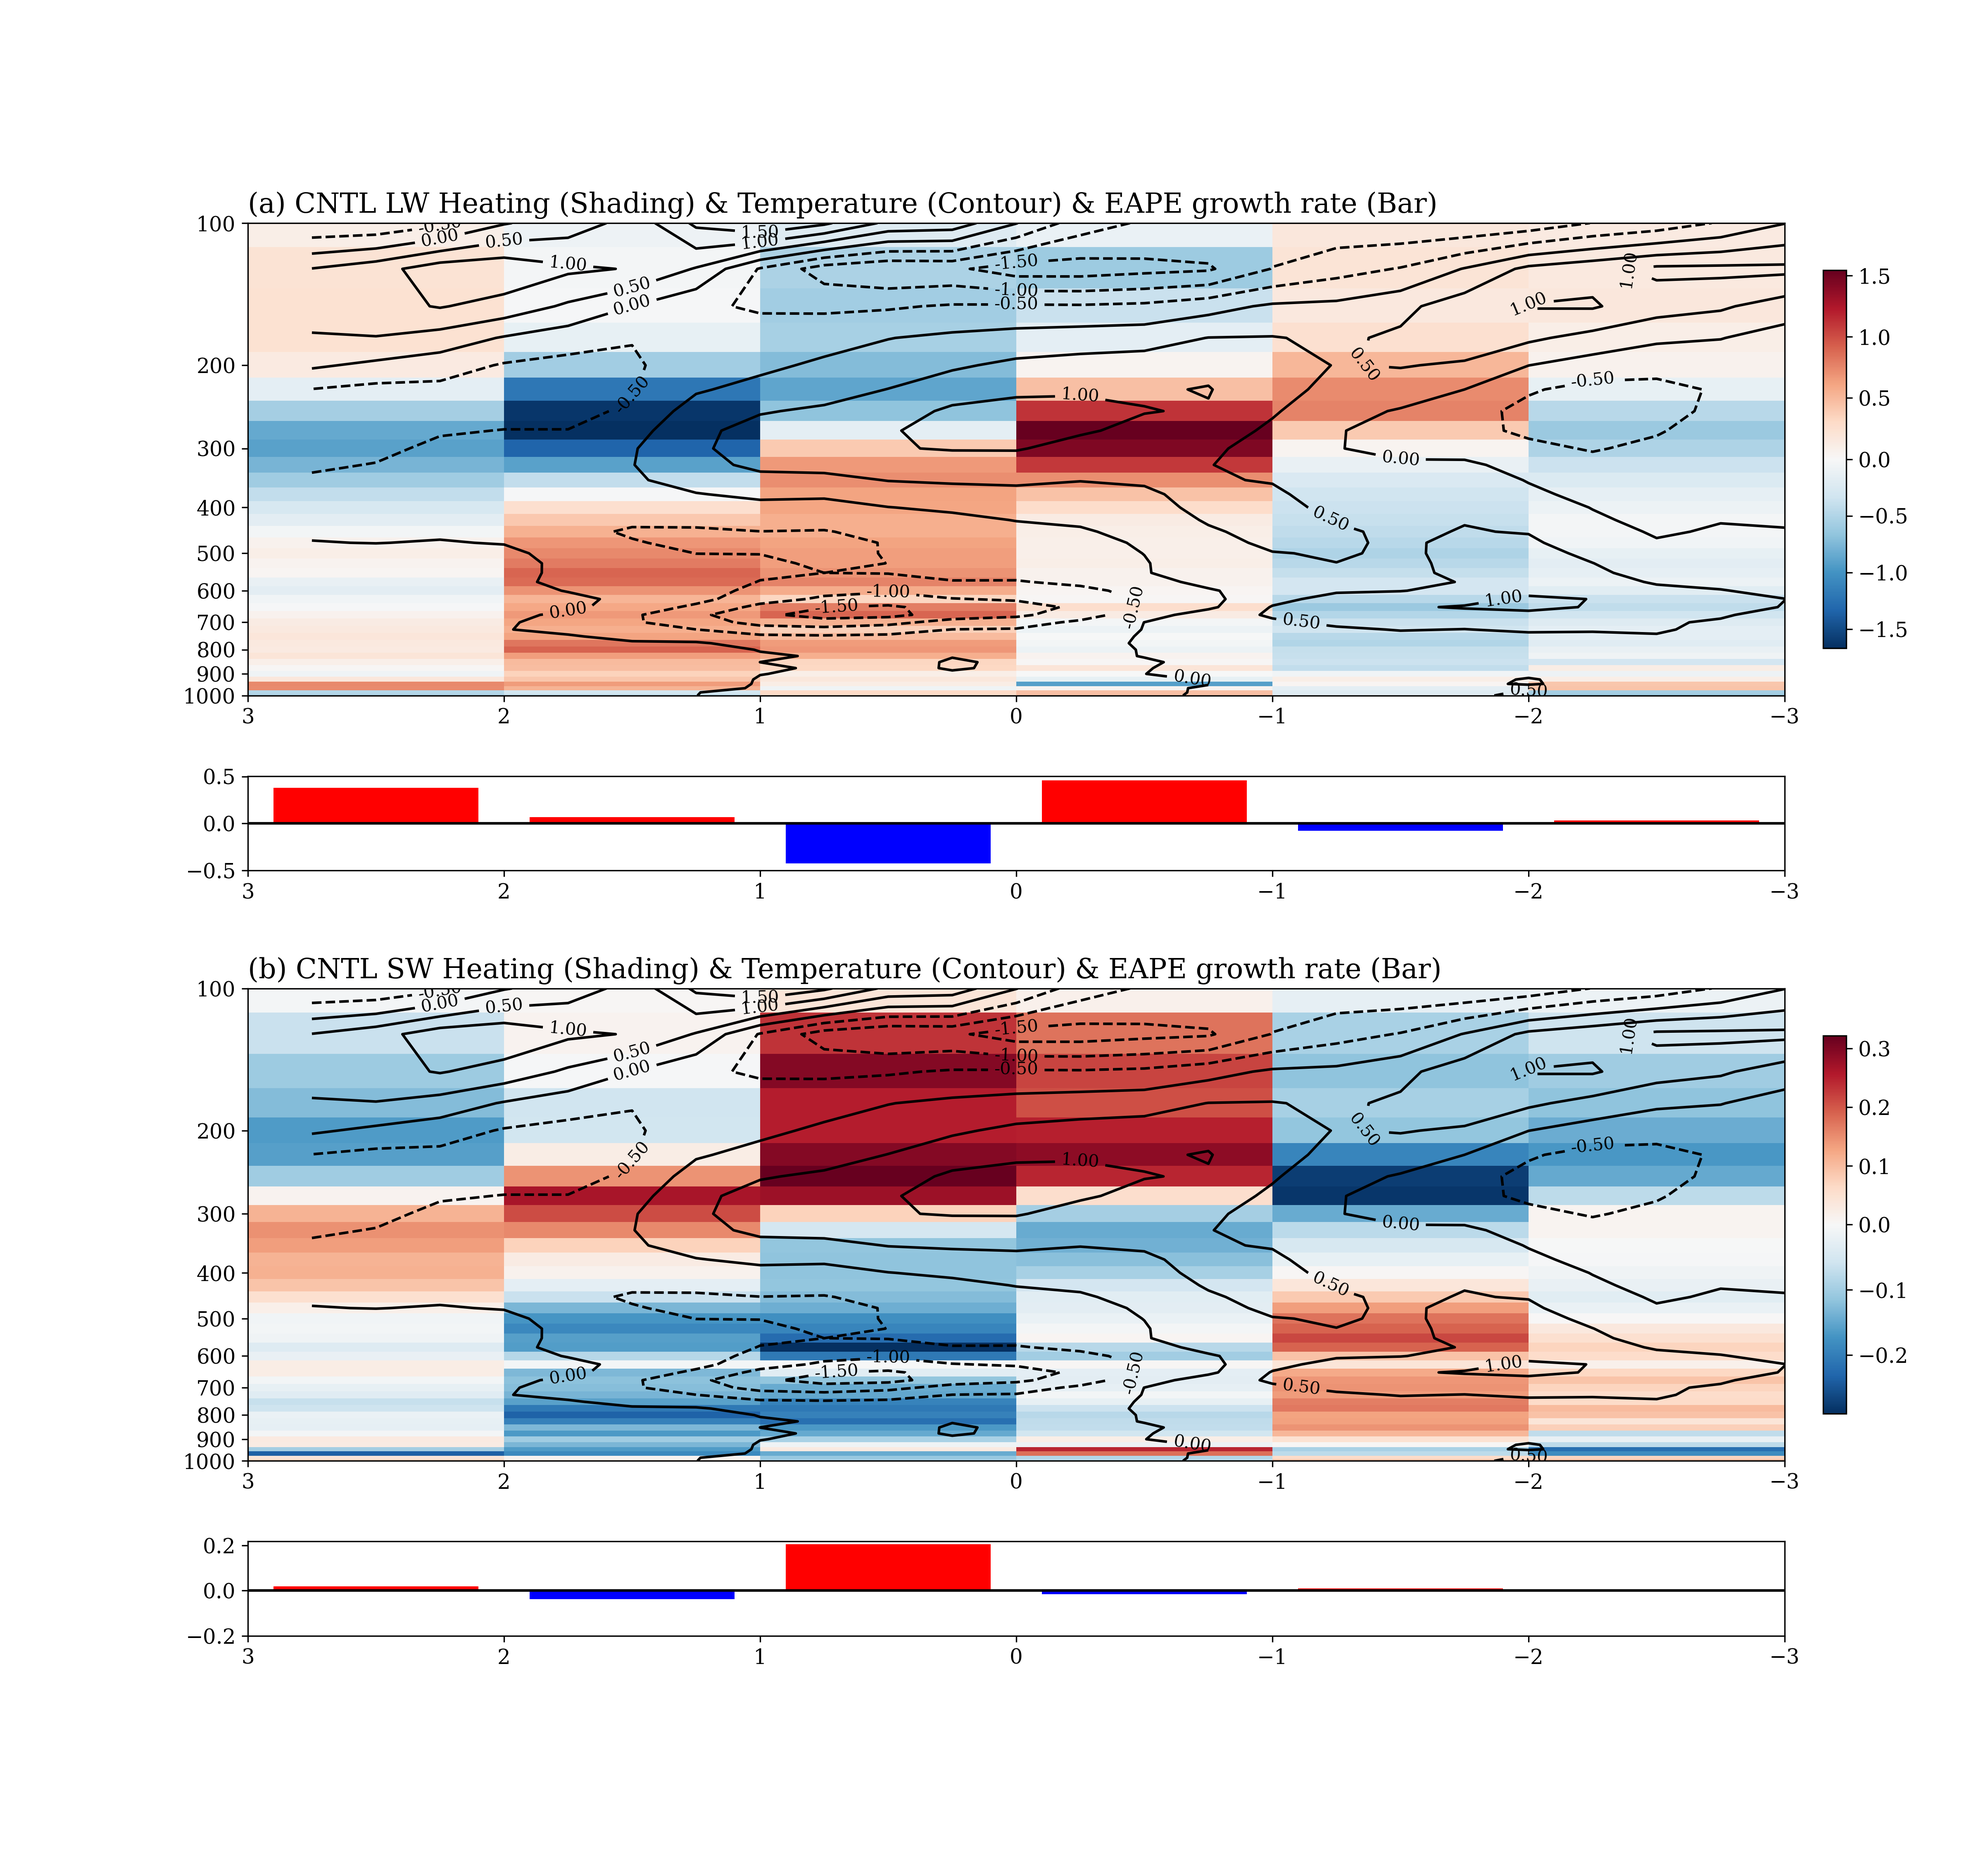
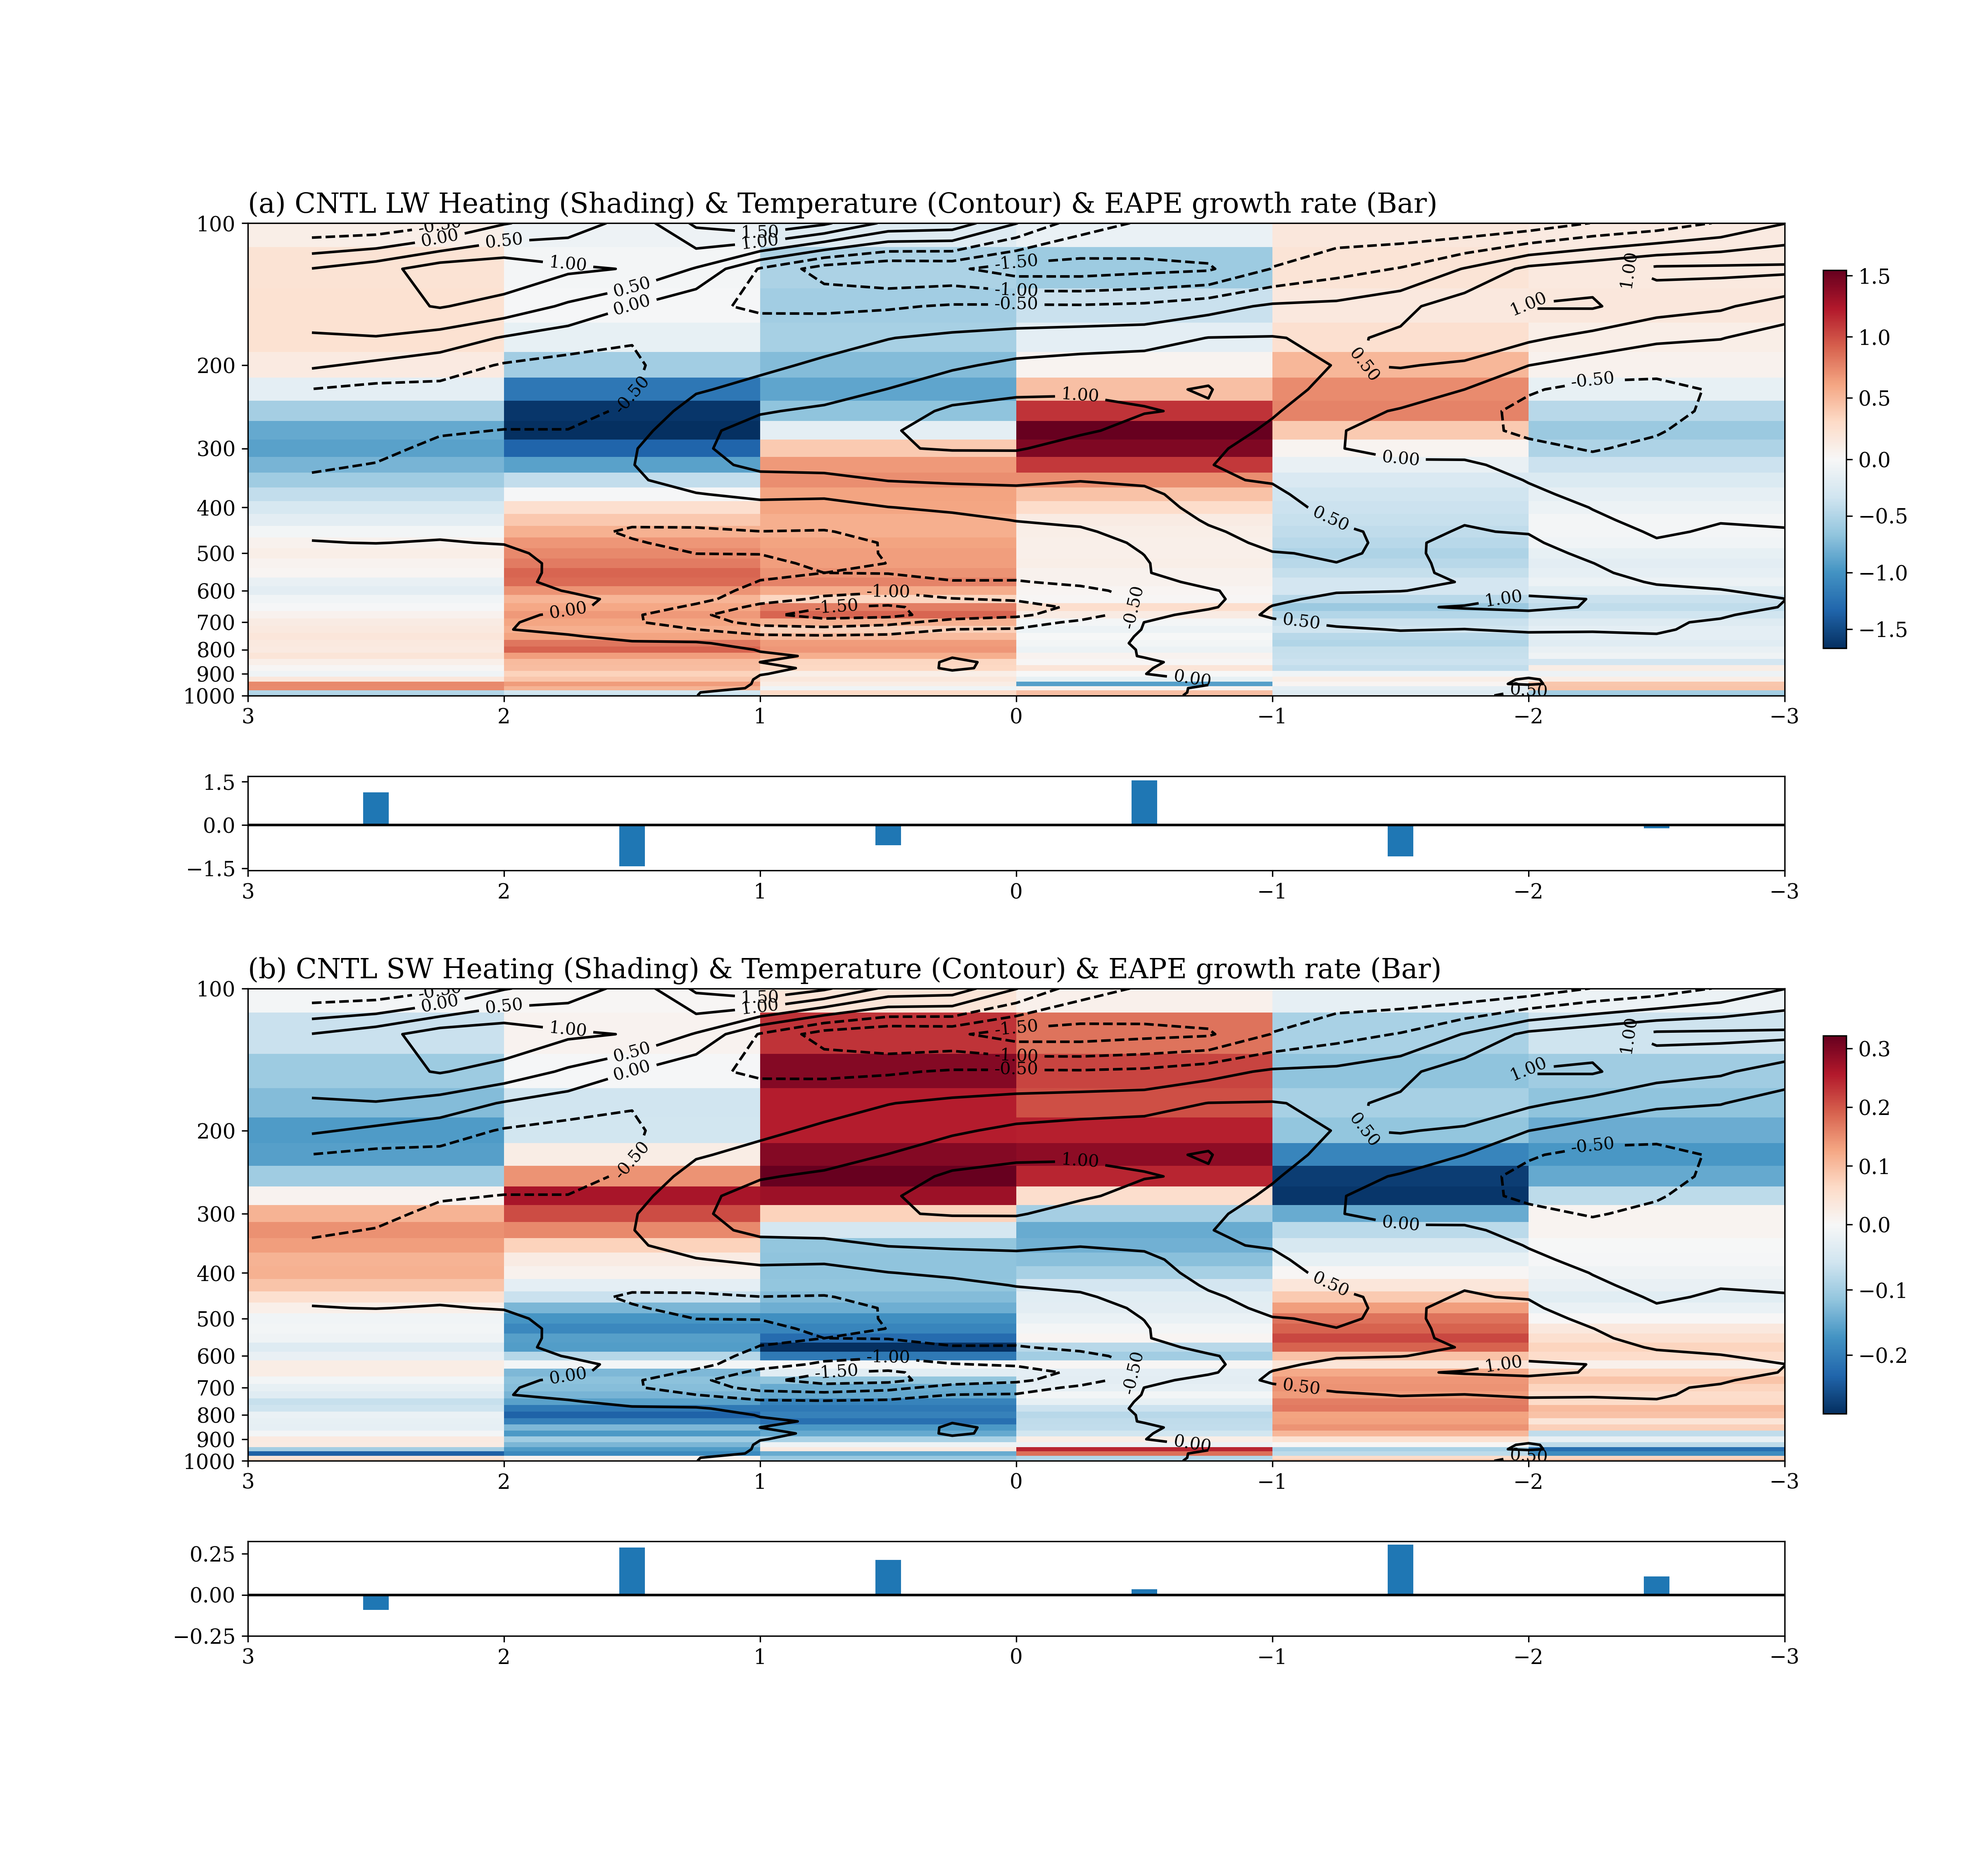
New raw power spectrum

Changed region(s): [[0.125, 0.8089, 0.875, 0.8711], [0.125, 0.4044, 0.75, 0.4667], [0.8125, 0.4356, 0.8438, 0.4667]]

diff --git a/Major/CNTL_NCRF/qv_power_spec.py b/Major/CNTL_NCRF/qv_power_spec.py
@@ -19,19 +19,17 @@ data: dict[str, np.ndarray] = dict();
 
 
 # # CNTL
-with nc.Dataset(f"{path}CNTL/theta.nc", "r") as cntl:
+with nc.Dataset(f"{path}CNTL/qv.nc", "r") as cntl:
     for key in cntl.dimensions.keys():
         dims[key] = cntl.variables[key][:];
     
-    lat_lim: tuple[int] = np.where((dims["lat"] >= -5) & (dims["lat"] <= 5))[0];
-
-    convert: np.ndarray = (1000. / dims["lev"][None, :, None, None]) ** (-0.286);
+    lat_lim: tuple[int] = np.where((dims["lat"] >= -5) & (dims["lat"] <= 5))[0];  
     
-    data["cntl"] = cntl.variables["theta"][:, :, lat_lim, :] * convert;
+    data["cntl"] = cntl.variables["qv"][:, :, lat_lim, :] * 1000.;
     
 # # NCRF
-with nc.Dataset(f"{path}NCRF/theta.nc", "r") as nsc:
-    data["ncrf"] = nsc.variables["theta"][:, :, lat_lim, :] * convert;
+with nc.Dataset(f"{path}NCRF/qv.nc", "r") as nsc:
+    data["ncrf"] = nsc.variables["qv"][:, :, lat_lim, :] * 1000.;
 
 ltime, llev, llat, llon = data["cntl"].shape;
 
@@ -115,7 +113,7 @@ asy_ps_weight: dict[str, np.ndarray] = dict(
     for exp in data.keys()
 );
 
-# # Compute background
+ # Compute background
 
 def background(data, nsmooth=20):
     kernel = np.array([1, 2, 1])
@@ -177,7 +175,6 @@ cntl_speed: float = phase_speed(wn_cntl, fr_cntl);
 ncrf_speed: float = phase_speed(wn_ncrf, fr_ncrf);
 
 # Figure
-# %%
 plt.rcParams["font.family"] = "serif";
 
 kelvin = lambda wn, eq: wn * np.sqrt(9.81*eq) * 86400 / (2*np.pi*6.371e6);
@@ -223,7 +220,7 @@ plot_lines(ax[0], wn_ana, fr_ana);
 ax[0].plot(wn_cntl, fr_cntl, "ro", markersize=10);
 ax[0].text(15, 0, f"Phase Speed: {cntl_speed:.2f} [m/s]", ha="right", va="bottom");
 ax[0].text(0, -0.06, "Zonal Wavenumber", ha="center", fontsize=14);
-ax[0].text(-20, 0.25, "Frequency [CPD]", va="center", rotation=90, fontsize=14);
+ax[0].text(-20, 0.25, "Freqquency [CPD]", va="center", rotation=90, fontsize=14);
 ax[0].set_xlim(-15, 15);
 ax[0].set_ylim(0, 1/2);
 ax[0].text(0, 0.52, "CNTL", ha="center", fontsize=16)
@@ -246,48 +243,30 @@ ax[1].text(0, 0.52, "NCRF", ha="center", fontsize=16)
 cbar = plt.colorbar(nsc_ps, ax=ax, orientation="horizontal", aspect=40, shrink=0.7)
 cbar.set_label("Normalized Power", fontsize=14);
 
-plt.savefig("/home/b11209013/Bachelor_Thesis/Major/Figure/Figure04.png", dpi=300);
+plt.savefig("/home/b11209013/Bachelor_Thesis/Major/Figure/Appendix01.png", dpi=300);
 plt.show();
 
-
-fig, ax = plt.subplots(1, 2, figsize=(12, 7), sharey=True);
-plt.subplots_adjust(left=0.08, right=0.96, bottom=0.03, top=0.9);
-cntl_ps = ax[0].contourf(
+plt.contourf(
     wn_v, fr_v[fr_v>0],
     np.log(np.fft.fftshift(sym_ps_weight["cntl"])[fr_v>0]),
     cmap="Blues",
-    levels=np.linspace(-7, 0, 15),
-    extend="min",
-);
-plot_lines(ax[0], wn_ana, fr_ana);
-ax[0].plot(wn_cntl, fr_cntl, "ro", markersize=10);
-ax[0].text(15, 0, f"Phase Speed: {cntl_speed:.2f} [m/s]", ha="right", va="bottom");
-ax[0].text(0, -0.06, "Zonal Wavenumber", ha="center", fontsize=14);
-ax[0].text(-20, 0.25, "Frequency [CPD]", va="center", rotation=90, fontsize=14);
-ax[0].set_xlim(-15, 15);
-ax[0].set_ylim(0, 1/2);
-ax[0].text(0, 0.52, "CNTL", ha="center", fontsize=16)
-plt.colorbar(cntl_ps, ax=ax[0], orientation="horizontal", aspect=30, shrink=0.7);
-
-nsc_ps = ax[1].contourf(
-    wn_v, fr_v[fr_v>0],
-    np.log(np.fft.fftshift(sym_peak["ncrf"])[fr_v>0]),
-    cmap="Blues",
-    levels=np.linspace(0, 3, 16),
+    #levels=np.linspace(1, 10, 19),
     extend="max",
-);
-plot_lines(ax[1], wn_ana, fr_ana);
-ax[1].text(15, 0, f"Phase Speed: {ncrf_speed:.2f} [m/s]", ha="right", va="bottom");
-ax[1].plot(wn_ncrf, fr_ncrf, "ro", markersize=10);
-ax[1].text(0, -0.06, "Zonal Wavenumber", ha="center", fontsize=14);
-ax[1].set_xlim(-15, 15);
-ax[1].set_ylim(0, 1/2);
-ax[1].text(0, 0.52, "NCRF", ha="center", fontsize=16)
+    )
+plt.xlim(-15, 15);
+plt.ylim(0, 1/2);
+plt.colorbar();
+plt.show();
 
-cbar = plt.colorbar(nsc_ps, ax=ax[1], orientation="horizontal", aspect=40, shrink=0.7)
-cbar.set_ticks(np.linspace(0, 3, 4));
-cbar.set_label("Normalized Power", fontsize=14);
-
-plt.savefig("/home/b11209013/Bachelor_Thesis/Major/Figure/Appendix01.png", dpi=300);
+plt.contourf(
+    wn_v, fr_v[fr_v>0],
+    np.log(np.fft.fftshift(sym_ps_weight["ncrf"])[fr_v>0]),
+    cmap="Blues",
+#    levels=np.linspace(1, 10, 19),
+    extend="max",
+    )
+plt.xlim(-15, 15);
+plt.ylim(0, 1/2);
+plt.colorbar();
 plt.show();
 

diff --git a/Major/CCKWs_Climatology/growthrate.py b/Major/CCKWs_Climatology/growthrate.py
@@ -1,0 +1,122 @@
+# This program is to compute the growth rate of
+# different heating source
+# Section 1: Import packages
+import sys;
+import numpy as np;
+from joblib import Parallel, delayed;
+from netCDF4 import Dataset as ds;
+from itertools import product;
+from matplotlib import pyplot as plt;
+from matplotlib.colors import TwoSlopeNorm;
+from numpy.random import permutation;
+
+sys.path.append("/home/b11209013/Package");
+import Theory as th; #type: ignore
+import Chien_Kim as ck; #type: ignore
+
+# Section 2: Load data
+def Load_data() -> dict[str, np.ndarray]:
+    # File name
+    fname   : str = "/work/b11209013/2024_Research/MPAS/PC/CNTL_PCs.nc";
+    
+    # Variable list
+    var_list: list[str] = ["t", "lw_heating", "sw_heating"];
+        
+    with ds(fname, "r") as f:
+        dims: dict[str, np.ndarray] = dict(
+            (var, f.variables[var][:])
+            for var in f.dimensions.keys()
+        );
+
+        data = dict(
+            (var, f.variables[var][:2])
+            for var in var_list 
+        );
+        
+    return var_list, dims, data;
+# Formatting data
+def symm_fmt(data:np.ndarray) -> np.ndarray:
+    symm_data: np.ndarray = (data + np.flip(data, axis=2)) / 2;
+    return symm_data;
+
+def parallel_shuffle(data, var_list):
+    """Shuffles the data and removes the 'pc' layer in the output dictionary."""
+    
+    def process(key):
+        """Shuffles data for a specific key across all `pc` keys and stacks them."""
+        shuffled = np.array([np.array([np.random.permutation(data[key][i]) for _ in range(300)]) for i in range (2)])
+        return key, shuffled
+
+    # Run parallel shuffle computation
+    results = Parallel(n_jobs=-1)(
+        delayed(process)(key) for key in var_list
+    )
+
+    # Convert results to a dictionary with only var_list keys
+    data_shuffle = {key: shuffled_data for key, shuffled_data in results}
+    
+    return data_shuffle
+
+def main():
+    # Load data
+    var_list, dims, data = Load_data();    
+    print("Finish loading data");
+    
+    # Processing data
+    data_symm: dict[str, dict[str, np.ndarray]] = dict(
+        zip(var_list, Parallel(n_jobs=-1)(
+            delayed(symm_fmt)(data[var])
+            for var in var_list
+        ))
+    );
+
+    del data;
+    
+    print("Finish symmetrizing data");
+    
+    # Random Shuffle data
+    # dictionary for shuffle data
+    # random object
+    data_shuffle = parallel_shuffle(data_symm, var_list)
+
+    print("Finish shuffling data");
+    
+    # Windowing data
+    lsec: int = 120;
+    
+    hanning: np.ndarray = np.hanning(lsec)[None, :, None, None];
+    hanning_shuffled: np.ndarray = np.hanning(lsec)[None, None, :, None, None];
+    
+    data_window: dict[str, dict[str, np.ndarray]] = dict();
+    data_window_shuffled: dict[str, dict[str, np.ndarray]] = dict();
+
+    indices = [slice(i*60, i*60+120) for i in range(5)]
+
+    def compute_windows(key):
+        """Compute both regular and shuffled windowed data for a given pc and key."""
+        data_win = np.stack([
+            data_symm[key][:, idx] * hanning for idx in indices
+        ])  # Shape: (5, 120, ...)
+
+        data_win_shuffled = np.stack([
+            data_shuffle[key][:, :, idx] * hanning_shuffled for idx in indices
+        ])  # Shape: (5, num_shuffles, 120, ...)
+
+        return key, data_win, data_win_shuffled
+
+    results = Parallel(n_jobs=-1)(
+        delayed(compute_windows)(key) for key in data_symm.keys())
+    
+    for key, win, win_shuffled in results:
+        data_window[key] = win
+        data_window_shuffled[key] = win_shuffled
+
+    print(data_window["t"].shape)
+    print(data_window_shuffled["t"].shape)
+
+    print("Finish windowing data");
+
+if __name__ == "__main__":
+    # variable list
+    main();
+    

diff --git a/Major/CCKWs_Climatology/CCKWs_lw_comp.py b/Major/CCKWs_Climatology/CCKWs_lw_comp.py
@@ -8,6 +8,7 @@ from matplotlib import pyplot as plt;
 from matplotlib.colors import TwoSlopeNorm;
 import matplotlib.gridspec as gridspec;
 from mpl_toolkits.axes_grid1.inset_locator import inset_axes;
+from scipy.integrate import trapezoid;
 
 # %% Section 2
 # Load file
@@ -86,21 +87,16 @@ def vint(
     lev : np.ndarray,
 ) -> np.ndarray:
     data_ave: np.ndarray = (data[1:] + data[:-1]) /2.;
-    data_vint: np.ndarray = -np.sum(data_ave * np.diff(lev*100.)[:, None], axis=0) / 9.81 / -np.sum(np.diff(lev*100.));
+    data_vint: np.ndarray = -np.sum(data_ave * np.diff(lev*100.)[:, None], axis=0);
     
     return data_vint;
 
-lw_t_vint: np.ndarray = vint(lw_daily * t_daily, dims["lev"]);
-sw_t_vint: np.ndarray = vint(sw_daily * t_daily, dims["lev"]);
-t_t_vint : np.ndarray = vint(t_daily  * t_daily, dims["lev"]);
+lw_t_vint: np.ndarray = trapezoid(lw_daily*t_daily, x=dims["lev"]*100., axis=0);
+sw_t_vint: np.ndarray = trapezoid(sw_daily*t_daily, x=dims["lev"]*100., axis=0);
+t_t_vint : np.ndarray = trapezoid(t_daily *t_daily, x=dims["lev"]*100., axis=0);
 
-lw_eape = 2 * (lw_daily * t_daily) / (t_daily * t_daily);
-sw_eape = 2 * (sw_daily * t_daily) / (t_daily * t_daily);
-
-#lw_eape_vint: np.ndarray = 2*lw_t_vint / t_t_vint;
-#sw_eape_vint: np.ndarray = 2*sw_t_vint / t_t_vint;
-lw_eape_vint: np.ndarray = vint(lw_eape, dims["lev"]);
-sw_eape_vint: np.ndarray = vint(sw_eape, dims["lev"]);
+lw_eape_vint: np.ndarray = 2*lw_t_vint / t_t_vint;
+sw_eape_vint: np.ndarray = 2*sw_t_vint / t_t_vint;
 
 print(lw_eape_vint.sum())
 print(sw_eape_vint.sum())
@@ -145,10 +141,10 @@ plt.clabel(t_cf, fmt="%1.2f", inline=True, fontsize=10)
 ax1 = fig.add_subplot(gs[1], sharex=ax0)
 lw_positive_cond = np.where(lw_eape_vint > 0)[0]
 lw_negative_cond = np.where(lw_eape_vint < 0)[0]
-ax1.bar(np.linspace(-2.5, 2.5, 6)[lw_positive_cond], lw_eape_vint[lw_positive_cond], color="r", label="LW")
-ax1.bar(np.linspace(-2.5, 2.5, 6)[lw_negative_cond], lw_eape_vint[lw_negative_cond], color="b", label="SW")
+
+ax1.bar(np.linspace(-2.5, 2.5, 6), lw_eape_vint, width=0.1)
 ax1.axhline(0, color="k")
-ax1.set_yticks(np.linspace(-0.5, 0.5, 3))
+ax1.set_yticks(np.linspace(-1.5, 1.5, 3))
 ax1.set_xlim(3, -3)
 
 # Align ax1 with ax0
@@ -187,10 +183,14 @@ ax2.set_position([pos2.x0, pos2.y0, pos2.width, pos2.height])  # Move down sligh
 ax3 = fig.add_subplot(gs[3], sharex=ax0)
 sw_positive_cond = np.where(sw_eape_vint > 0)[0]
 sw_negative_cond = np.where(sw_eape_vint < 0)[0]
-ax3.bar(np.linspace(-2.5, 2.5, 6)[sw_positive_cond], sw_eape_vint[sw_positive_cond], color="r", label="LW")
-ax3.bar(np.linspace(-2.5, 2.5, 6)[sw_negative_cond], sw_eape_vint[sw_negative_cond], color="b", label="SW")
+print(sw_positive_cond)
+print(sw_negative_cond)
+
+#ax3.bar(np.linspace(-3, 2.75, 24)[sw_positive_cond], sw_eape_vint[sw_positive_cond], color="r", label="LW")
+#ax3.bar(np.linspace(-3, 2.75, 24)[sw_negative_cond], sw_eape_vint[sw_negative_cond], color="b", label="SW")
+ax3.bar(np.linspace(-2.5, 2.5, 6), sw_eape_vint, width=0.1)
 ax3.axhline(0, color="k")
-ax3.set_yticks(np.linspace(-0.2, 0.2, 3))
+ax3.set_yticks(np.linspace(-0.25, 0.25, 3))
 ax3.set_xlim(3, -3)
 
 # Align ax3 with ax2

diff --git a/Major/New.py b/Major/New.py
@@ -1,0 +1,3 @@
+import numpy as np
+import netCDF4
+import matplotlib.pyplot as plt
